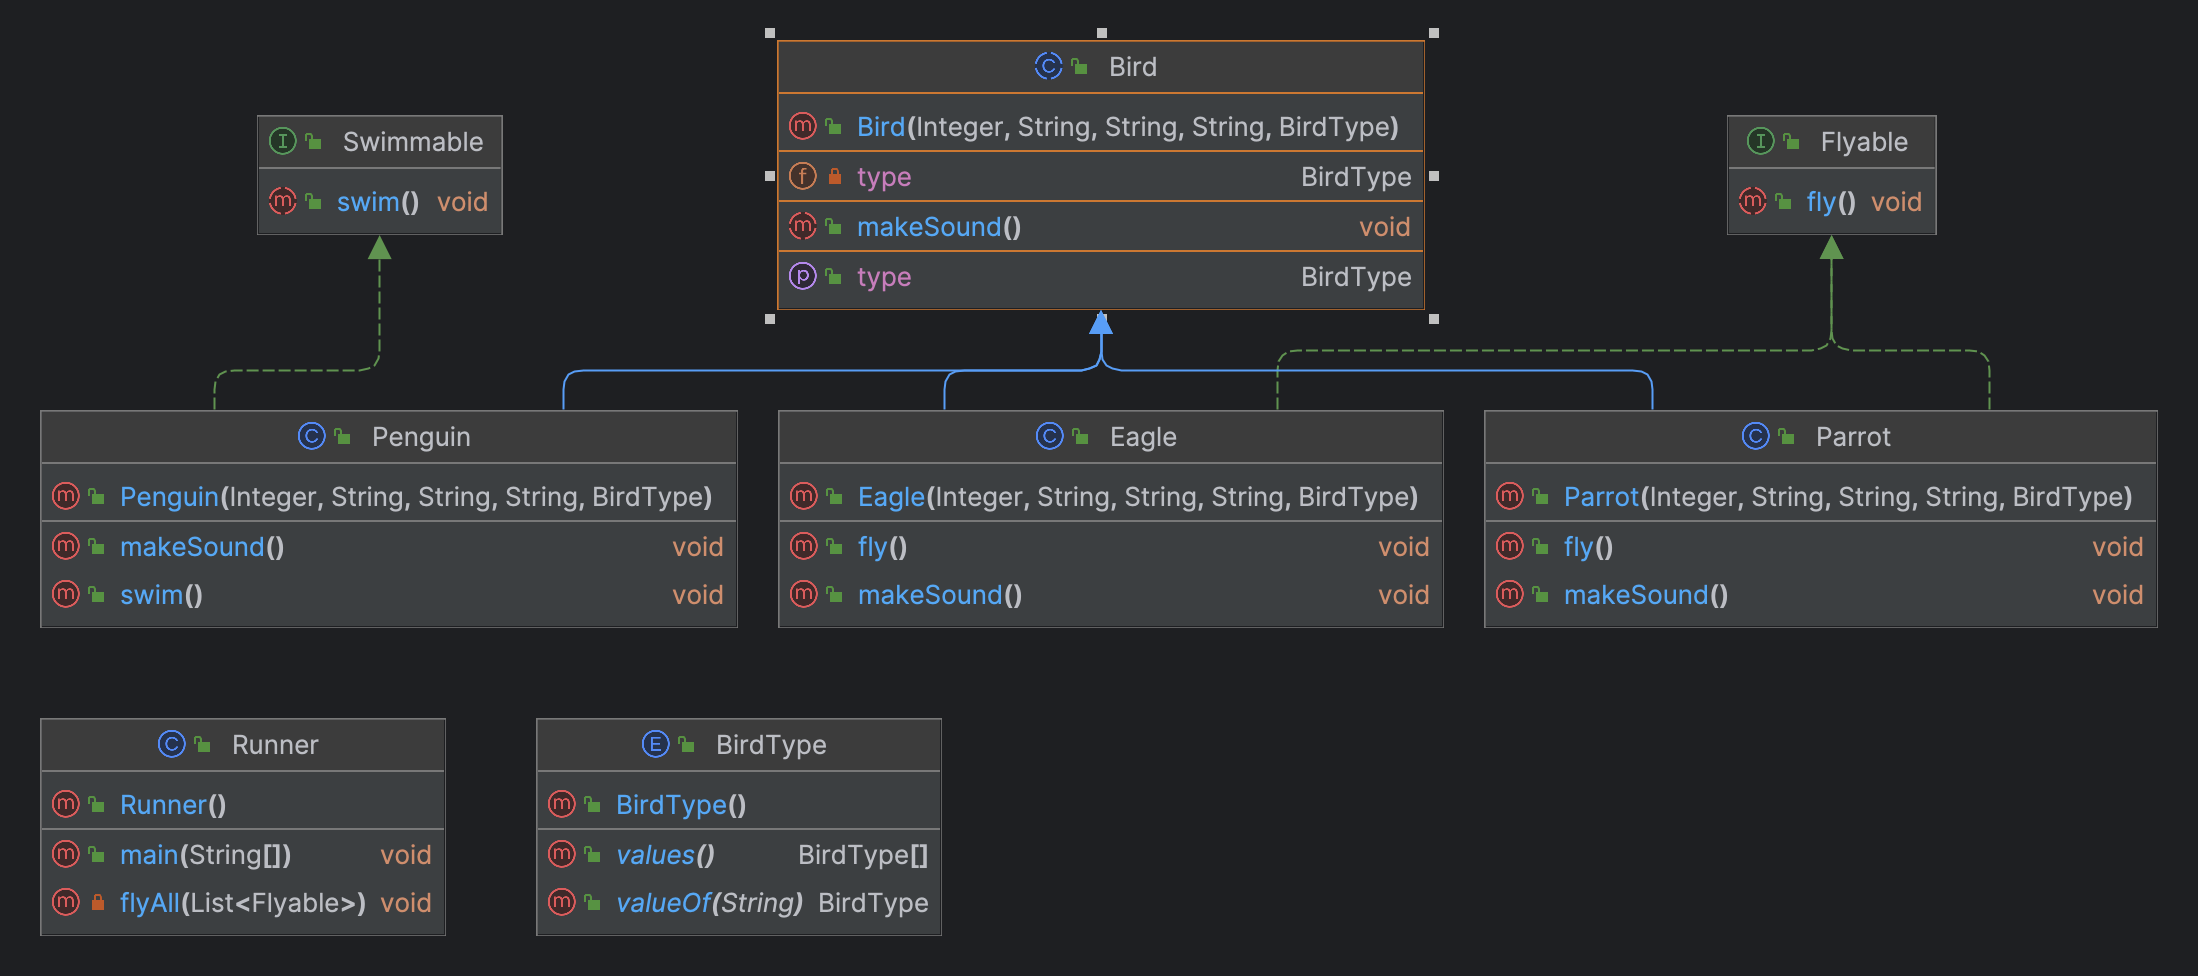
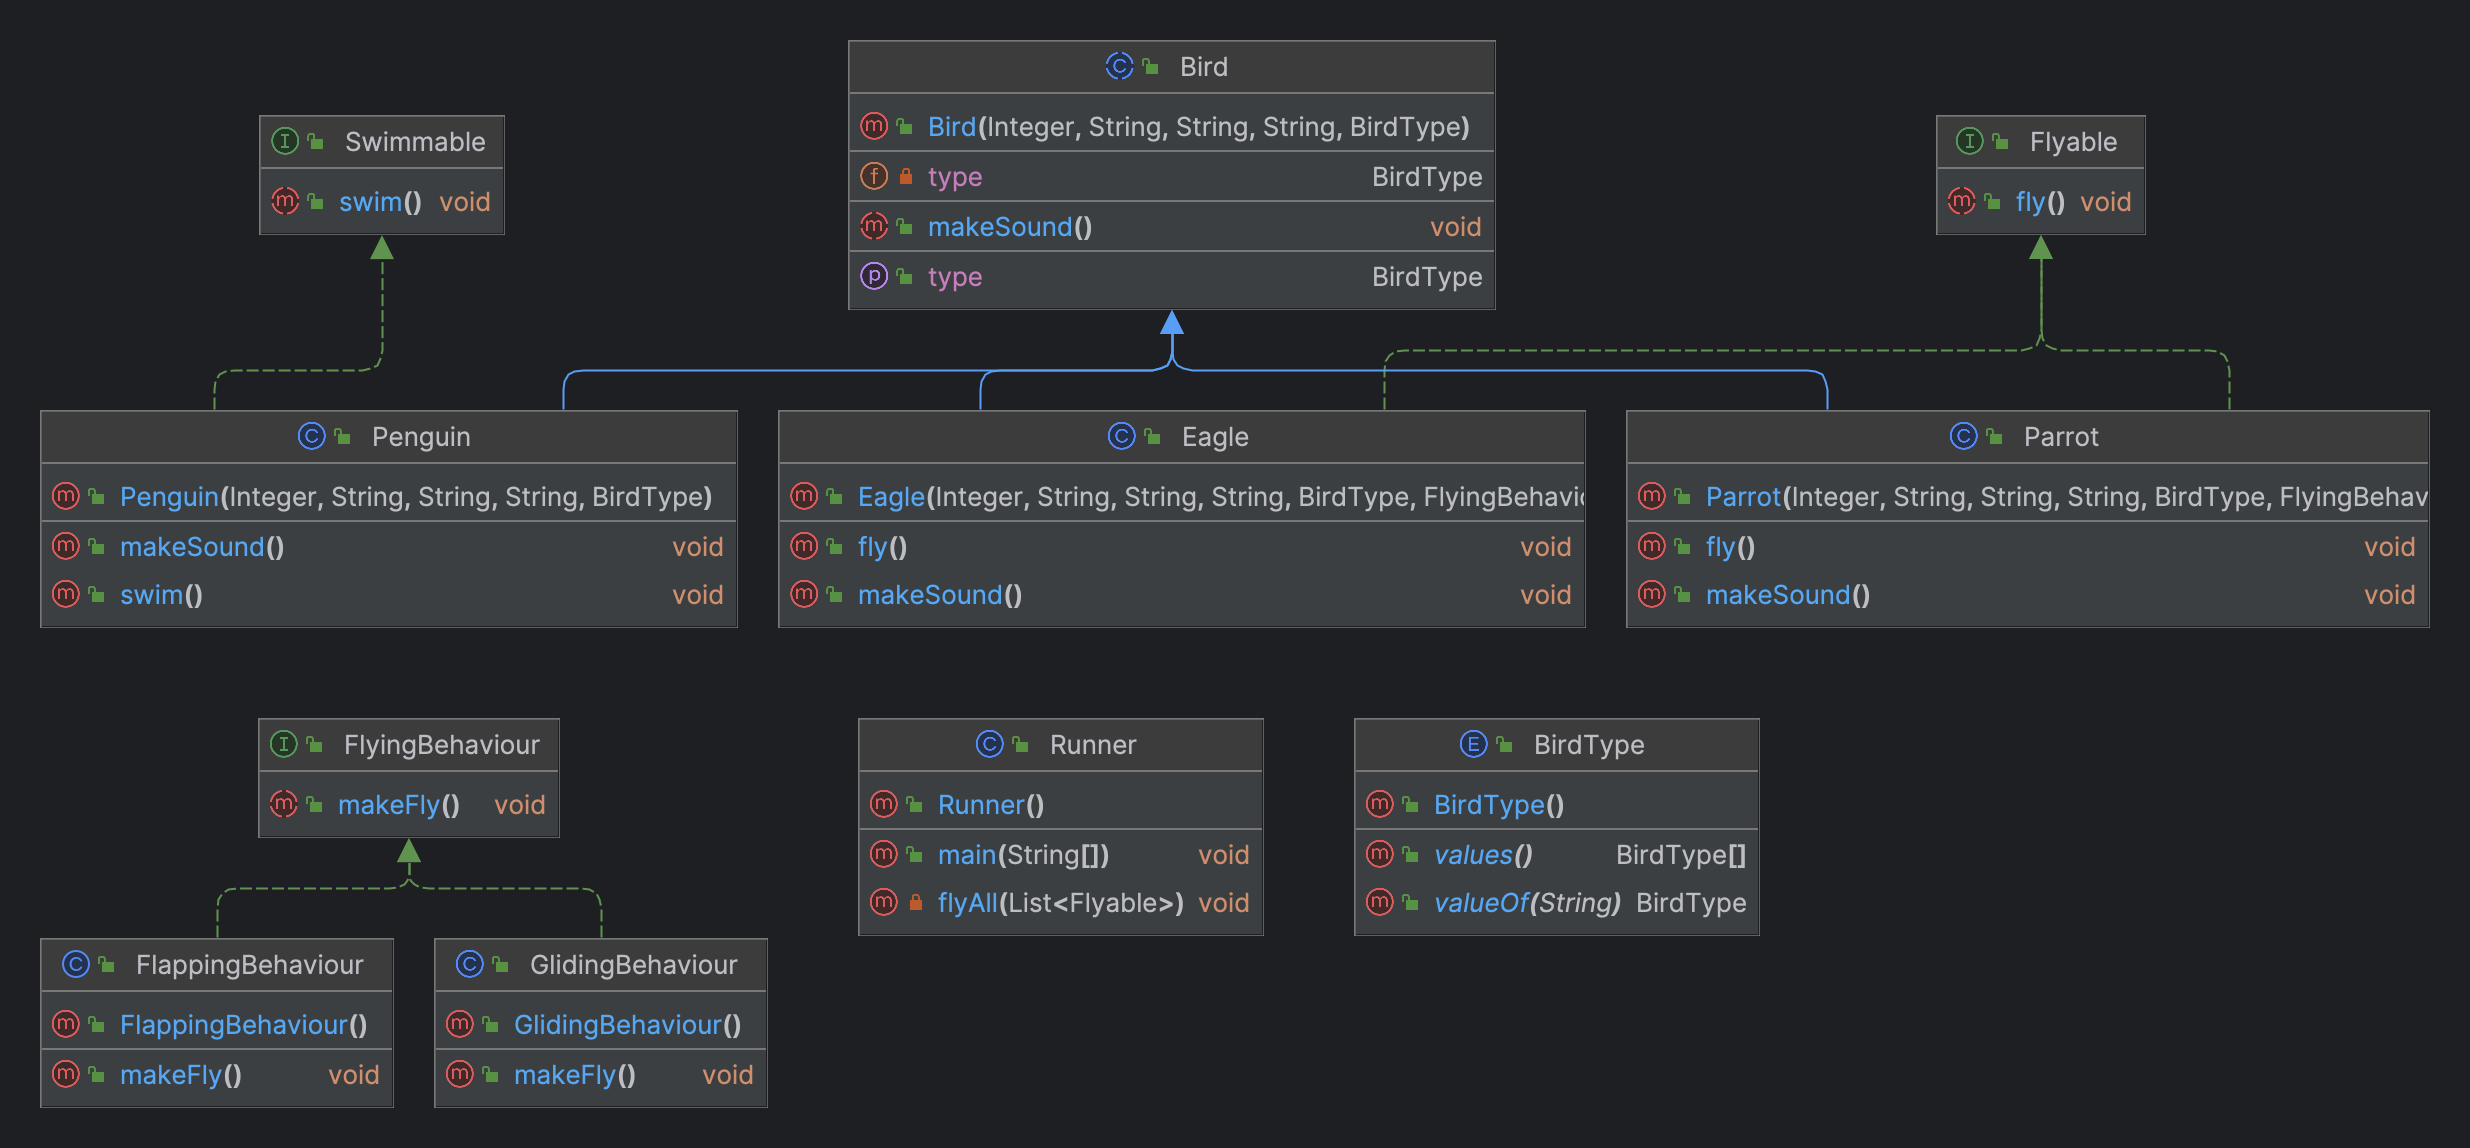
Dependency Inversion

diff --git a/src/OOD/SOLID/birdExample/Parrot.java b/src/OOD/SOLID/birdExample/Parrot.java
@@ -1,5 +1,8 @@
 package OOD.SOLID.birdExample;
 
+import OOD.SOLID.birdExample.Interface.Flyable;
+import OOD.SOLID.birdExample.Interface.FlyingBehaviour;
+
 public class Parrot extends Bird implements Flyable {
     private FlyingBehaviour flyingBehaviour;
     public Parrot(Integer weight, String colour, String size, String beakType, BirdType type, FlyingBehaviour flyingBehaviour) {

diff --git a/src/OOD/SOLID/birdExample/FlappingBehaviour.java b/src/OOD/SOLID/birdExample/FlappingBehaviour.java
@@ -1,6 +1,8 @@
 package OOD.SOLID.birdExample;
 
-public class FlappingBehaviour implements FlyingBehaviour{
+import OOD.SOLID.birdExample.Interface.FlyingBehaviour;
+
+public class FlappingBehaviour implements FlyingBehaviour {
     @Override
     public void makeFly() {
         System.out.println("Flapping");

diff --git a/src/OOD/SOLID/birdExample/Penguin.java b/src/OOD/SOLID/birdExample/Penguin.java
@@ -1,5 +1,7 @@
 package OOD.SOLID.birdExample;
 
+import OOD.SOLID.birdExample.Interface.Swimmable;
+
 public class Penguin extends Bird implements Swimmable {
     public Penguin(Integer weight, String colour, String size, String beakType, BirdType type) {
         super(weight, colour, size, beakType, type);

diff --git a/src/OOD/SOLID/birdExample/Eagle.java b/src/OOD/SOLID/birdExample/Eagle.java
@@ -1,5 +1,8 @@
 package OOD.SOLID.birdExample;
 
+import OOD.SOLID.birdExample.Interface.Flyable;
+import OOD.SOLID.birdExample.Interface.FlyingBehaviour;
+
 public class Eagle extends Bird implements Flyable {
 
     private FlyingBehaviour flyingBehaviour;

diff --git a/src/OOD/SOLID/birdExample/GlidingBehaviour.java b/src/OOD/SOLID/birdExample/GlidingBehaviour.java
@@ -1,5 +1,7 @@
 package OOD.SOLID.birdExample;
 
+import OOD.SOLID.birdExample.Interface.FlyingBehaviour;
+
 public class GlidingBehaviour implements FlyingBehaviour {
     @Override
     public void makeFly() {

diff --git a/src/OOD/SOLID/birdExample/Runner.java b/src/OOD/SOLID/birdExample/Runner.java
@@ -1,5 +1,8 @@
 package OOD.SOLID.birdExample;
 
+import OOD.SOLID.birdExample.Interface.Flyable;
+import OOD.SOLID.birdExample.Interface.Swimmable;
+
 import java.util.List;
 
 public class Runner {

diff --git a/src/OOD/SOLID/birdExample/Interface/FlyingBehaviour.java b/src/OOD/SOLID/birdExample/Interface/FlyingBehaviour.java
@@ -1,4 +1,4 @@
-package OOD.SOLID.birdExample;
+package OOD.SOLID.birdExample.Interface;
 
 public interface FlyingBehaviour {
     public void makeFly();

diff --git a/src/OOD/SOLID/birdExample/Interface/Swimmable.java b/src/OOD/SOLID/birdExample/Interface/Swimmable.java
@@ -1,4 +1,4 @@
-package OOD.SOLID.birdExample;
+package OOD.SOLID.birdExample.Interface;
 
 public interface Swimmable {
     public void swim();

diff --git a/src/OOD/SOLID/birdExample/Interface/Flyable.java b/src/OOD/SOLID/birdExample/Interface/Flyable.java
@@ -1,4 +1,4 @@
-package OOD.SOLID.birdExample;
+package OOD.SOLID.birdExample.Interface;
 
 public interface Flyable {
     public void fly();
